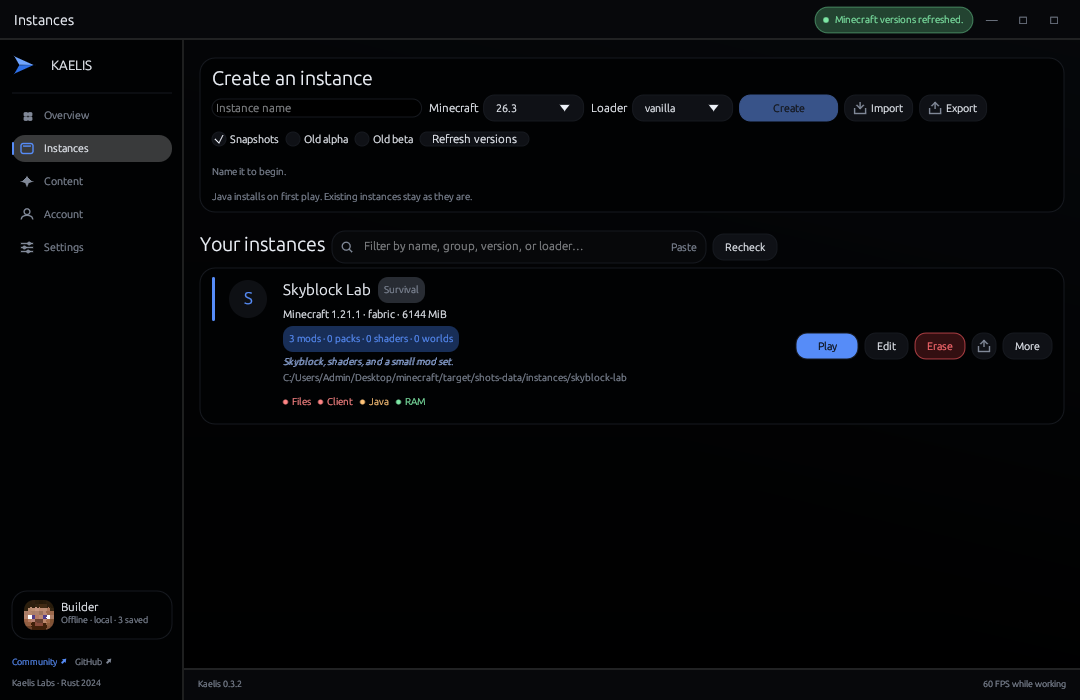
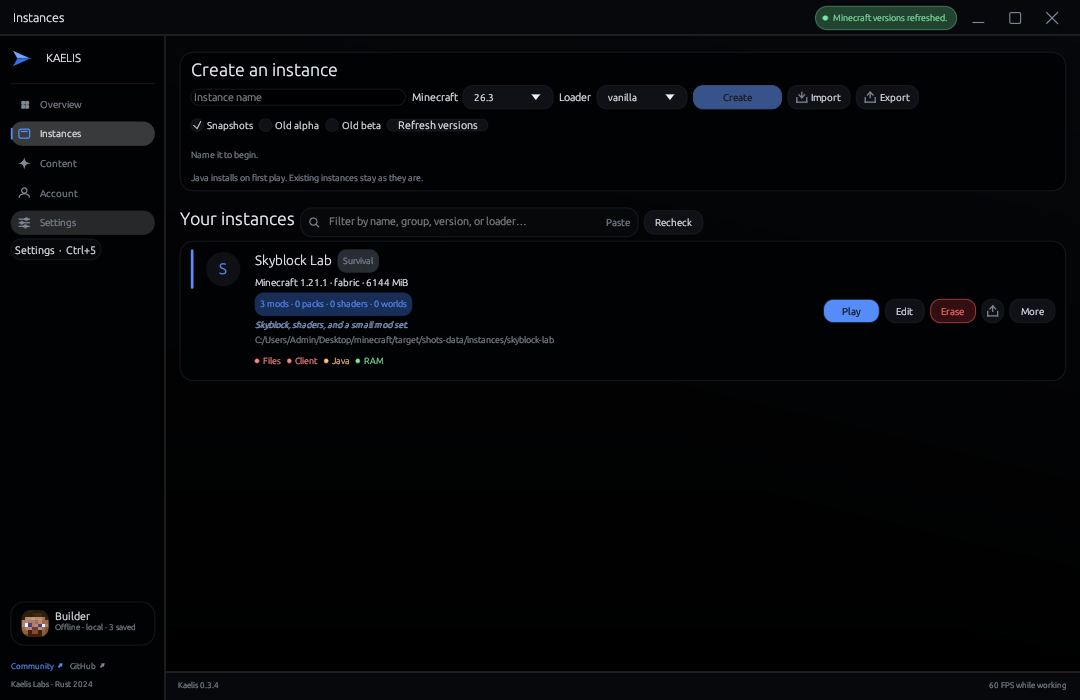
Round the window at composition time and drop every shadow
The window now asks the compositor for rounded corners and a border-less
edge instead of relying on a transparent surface, so the pixels it owns stay
opaque and no full-surface alpha blend is paid on any frame. The three window
controls are painted strokes in the system's own shapes, which keeps the close
button looking like the one every other window has, and the card, menu, and
popup shadows are gone: flat surfaces and hairlines do the separating.

Measured on the development host, window time and working set move within host
noise either way, so this is a change that removes work rather than one that
can be shown as a speedup.

Generated with Codebuff 🤖

diff --git a/site/index.html b/site/index.html
@@ -40,7 +40,7 @@
         "applicationSubCategory": "Minecraft launcher",
         "operatingSystem": "Windows 10, Windows 11, macOS 11, Linux",
         "processorRequirements": "x86_64 or arm64",
-        "softwareVersion": "0.3.3",
+        "softwareVersion": "0.3.4",
         "softwareRequirements": "Rust 1.85+ to build from source; Java is provisioned automatically",
         "downloadUrl": "https://fuvji.github.io/kaelis/downloads/Kaelis-Portable.zip",
         "installUrl": "https://fuvji.github.io/kaelis/#downloads",
@@ -424,7 +424,7 @@
     <div class="shell" id="top">
       <section class="hero" aria-labelledby="hero-title">
         <div>
-          <span class="eyebrow"><i></i>v0.3.3 · Windows · macOS · Linux</span>
+          <span class="eyebrow"><i></i>v0.3.4 · Windows · macOS · Linux</span>
           <h1 id="hero-title">Minecraft,<br><em>composed.</em></h1>
           <p class="lede">Instances, mods, packs, shaders, and accounts in one native workspace. Files stay local. Nothing runs in the background.</p>
           <div class="hero-actions">
@@ -599,7 +599,7 @@
         </div>
 
         <div class="downloads-foot">
-          <span><b style="color:var(--text)">New in 0.3.3</b> · every third-party component sits at its <b style="color:var(--text)">newest patch release</b>, and <b style="color:var(--text)">the launcher remembers how it was left</b>: the window reopens at the size it was last settled on, and snapshots, alpha and beta versions, required dependencies, the search providers, and search-as-you-type all reopen where they were set. The window is now a <b style="color:var(--text)">frameless overlay</b> — drag its own header to move it, double-click to maximize or restore, one control each to minimize, maximize, and close, and resizing from every edge and corner. Descriptions across the launcher are one line each. Everything from 0.3.1 remains: Play repairs a missing JVM, client jar, library, or loader before it launches, Minecraft's own telemetry is forced off, and Auto Erase Junk keeps every instance clean at 0.00% idle cost.</span>
+          <span><b style="color:var(--text)">New in 0.3.4</b> · <b style="color:var(--text)">smoothly rounded corners</b> come from the compositor instead of a transparent surface, the window controls are drawn as strokes in the system's own shapes, and <b style="color:var(--text)">every drop shadow is gone</b> — flat surfaces and hairlines do the separating. The window surface is opaque now, which removes a full-surface alpha blend from every frame. <b style="color:var(--text)">The launcher remembers how it was left</b>: the window reopens at the size it was last settled on, and snapshots, alpha and beta versions, required dependencies, the search providers, and search-as-you-type all reopen where they were set. The window is now a <b style="color:var(--text)">frameless overlay</b> — drag its own header to move it, double-click to maximize or restore, one control each to minimize, maximize, and close, and resizing from every edge and corner. Descriptions across the launcher are one line each. Everything from 0.3.1 remains: Play repairs a missing JVM, client jar, library, or loader before it launches, Minecraft's own telemetry is forced off, and Auto Erase Junk keeps every instance clean at 0.00% idle cost.</span>
           <span>Every tag builds all three platforms in CI and publishes checksums.</span>
           <a href="downloads/KAELIS-LINKS.txt">URL &amp; install index ↗</a>
           <a href="https://github.com/fuvji/kaelis/releases/latest" rel="noreferrer">All releases ↗</a>
@@ -610,9 +610,9 @@
           <summary>Checksums and build provenance</summary>
           <div class="body">
             <p style="margin:0;color:var(--muted);font-size:13px">Every artifact is hashed at release time. Published files: <a href="downloads/SHA256SUMS.txt" style="color:var(--accent-soft)">SHA256SUMS.txt</a> and the generated <a href="downloads/KAELIS-LINKS.txt" style="color:var(--accent-soft)">URL &amp; installation index</a>.</p>
-            <div class="hash"><span>Kaelis.exe</span><code data-release="exe-hash">bd7ddecd2f58aa4b230a11b8d54cde0018c59356f84c5c76777446fa92dcabb3</code></div>
-            <div class="hash"><span>Kaelis-Portable.zip</span><code data-release="zip-hash">07df916b29a91ae8f7aaf59456f4900ca616f2d9672fa812b585221840e3eaac</code></div>
-            <div class="hash"><span>Kaelis-Setup.exe</span><code data-release="setup-hash">b2dabfa4675c352c2ce0f992a9ff04eee36394de2ccab3e9529c4414aff8f948</code></div>
+            <div class="hash"><span>Kaelis.exe</span><code data-release="exe-hash">f323426615ece54a4977a5f367b9f096a34cee6f3187633c9fbe0275c5e68444</code></div>
+            <div class="hash"><span>Kaelis-Portable.zip</span><code data-release="zip-hash">071ccbcd7d067a83573c4ab04b655b1f0f26b1743e074de1c756b2181dcf6aac</code></div>
+            <div class="hash"><span>Kaelis-Setup.exe</span><code data-release="setup-hash">732a9c026ee9544e8a338070ee098b20a81eea8e59c8b97be6545df47af4ab1a</code></div>
             <div class="hash"><span>Kaelis-macos-universal.dmg</span><code data-release="dmg-hash">6fa2fda1b93f2c01228da3073ce18f3722b7e650bbcd4703eabbe5e7a2b2e9f7</code></div>
             <div class="hash"><span>Kaelis-linux-x64.deb</span><code data-release="deb-hash">e2510545e116a6c29daa32eebc9da1629bff25c4fa14be307cd2de3a57ae3d0d</code></div>
             <div class="hash"><span>Kaelis-linux-x64.AppImage</span><code data-release="appimage-hash">0c34a7aaba346aeb68a284834321db24a72d3fc2fe1f172871d3921c289cea52</code></div>

diff --git a/crates/kaelis-gui/src/lib.rs b/crates/kaelis-gui/src/lib.rs
@@ -1149,6 +1149,12 @@ pub struct KaelisApp {
     /// The persisted switches as they were last written, compared once per
     /// frame so any checkbox can change them without its own save call.
     ui_switches_saved: UiSwitches,
+    /// Whether the compositor has been asked for rounded corners yet, and how
+    /// many frames the ask has been retried for.
+    #[cfg(windows)]
+    window_rounded: bool,
+    #[cfg(windows)]
+    window_round_tries: u8,
     /// The window is hidden because a game started, not by the user. Only this
     /// case restores the window automatically when the last game exits.
     hidden_for_game: bool,
@@ -1189,20 +1195,12 @@ fn install_style(context: &egui::Context) {
     visuals.window_rounding = egui::Rounding::same(CORNER_LG);
     visuals.menu_rounding = egui::Rounding::same(CORNER_MD);
     // Flat surfaces and hairline strokes do the separating. A drop shadow
-    // under every card is the fastest way to make a dark UI look muddy, and on
-    // an OLED panel it lights up pixels that would otherwise be off.
-    visuals.window_shadow = egui::epaint::Shadow {
-        offset: egui::vec2(0.0, 8.0),
-        blur: 24.0,
-        spread: 0.0,
-        color: egui::Color32::from_black_alpha(160),
-    };
-    visuals.popup_shadow = egui::epaint::Shadow {
-        offset: egui::vec2(0.0, 6.0),
-        blur: 20.0,
-        spread: 0.0,
-        color: egui::Color32::from_black_alpha(150),
-    };
+    // under every card is the fastest way to make a dark UI look muddy, it
+    // lights up pixels an OLED panel would otherwise switch off, and it is
+    // feathered geometry the painter has to tessellate on every open menu.
+    // Removing it costs nothing and saves all three.
+    visuals.window_shadow = egui::epaint::Shadow::NONE;
+    visuals.popup_shadow = egui::epaint::Shadow::NONE;
     // No global text override: egui derives placeholder/hint text from the
     // widget foreground, so an override would make every hint look like a
     // real value. Colour the widget states instead.
@@ -1570,6 +1568,10 @@ impl KaelisApp {
             launch_at_startup: launcher_settings.launch_at_startup,
             window_size: launcher_settings.window_size,
             window_size_due: None,
+            #[cfg(windows)]
+            window_rounded: false,
+            #[cfg(windows)]
+            window_round_tries: 0,
             ui_switches_saved: UiSwitches {
                 show_snapshots: launcher_settings.show_snapshots,
                 show_alpha: launcher_settings.show_alpha,
@@ -6877,19 +6879,21 @@ impl KaelisApp {
                             .strong(),
                     );
                     ui.with_layout(egui::Layout::right_to_left(egui::Align::Center), |ui| {
-                        if header_button(ui, "✕", "Close").clicked() {
+                        if window_control(ui, WindowControl::Close, "Close").clicked() {
                             self.quit_now();
                         }
                         let maximized = context
                             .input(|input| input.viewport().maximized)
                             .unwrap_or(false);
-                        let glyph = if maximized { "❐" } else { "□" };
-                        if header_button(ui, glyph, if maximized { "Restore" } else { "Maximize" })
-                            .clicked()
-                        {
+                        let (control, tooltip) = if maximized {
+                            (WindowControl::Restore, "Restore")
+                        } else {
+                            (WindowControl::Maximize, "Maximize")
+                        };
+                        if window_control(ui, control, tooltip).clicked() {
                             context.send_viewport_cmd(egui::ViewportCommand::Maximized(!maximized));
                         }
-                        if header_button(ui, "—", "Minimize").clicked() {
+                        if window_control(ui, WindowControl::Minimize, "Minimize").clicked() {
                             platform::minimize_window(context);
                         }
                         let running = self.running_instances.len();
@@ -11644,6 +11648,18 @@ impl eframe::App for KaelisApp {
         // actually changed.
         self.persist_switches_if_changed();
         self.track_window_size(context);
+        #[cfg(windows)]
+        if !self.window_rounded {
+            // The compositor needs the real handle, which exists once the
+            // window does. A retry is bounded so a system that never answers
+            // cannot turn this into a repaint loop, and a system that answers
+            // with an error (Windows 10) is done on the first try.
+            self.window_rounded = platform::round_window_corners();
+            if !self.window_rounded && self.window_round_tries < 20 {
+                self.window_round_tries += 1;
+                context.request_repaint();
+            }
+        }
         Self::window_resize_grips(context);
         Self::paint_backdrop(context);
         self.show_header(context);
@@ -12835,15 +12851,86 @@ fn check_chip(
 /// neighbours and sat at the top of the row. Allocating the control height up
 /// front and painting the dot and text on its centre line keeps every toolbar
 /// on one baseline without adding another widget to the paint path.
-/// One glyph control on the header strip, sized like the rail's icons.
-fn header_button(ui: &mut egui::Ui, glyph: &str, tooltip: &str) -> egui::Response {
-    ui.add(
-        egui::Button::new(egui::RichText::new(glyph).size(12.0).color(MUTED))
-            .frame(false)
-            .min_size(egui::vec2(24.0, CONTROL_HEIGHT)),
-    )
-    .on_hover_text(tooltip)
-    .on_hover_cursor(egui::CursorIcon::PointingHand)
+/// Which window control a header button is.
+#[derive(Debug, Clone, Copy, PartialEq, Eq)]
+enum WindowControl {
+    Minimize,
+    Maximize,
+    Restore,
+    Close,
+}
+
+/// One window control on the header strip, drawn with strokes.
+///
+/// Strokes instead of glyphs: the last controls on the window should not depend
+/// on which icons a font happens to carry, and lines stay crisp at every scale
+/// factor. The shapes are the system's — a rule, a frame, two frames, and an
+/// X — so the strip reads like window chrome rather than app buttons. The
+/// close button keeps the system's red hover, which is the one place a window
+/// says “this ends me”.
+fn window_control(ui: &mut egui::Ui, control: WindowControl, tooltip: &str) -> egui::Response {
+    const WIDTH: f32 = 34.0;
+    /// Half the glyph's width: every shape below is drawn inside 12 × 12 points.
+    const HALF: f32 = 6.0;
+    let (rect, response) =
+        ui.allocate_exact_size(egui::vec2(WIDTH, CONTROL_HEIGHT), egui::Sense::click());
+    let hovered = response.hovered();
+    let painter = ui.painter();
+    if hovered {
+        let fill = if control == WindowControl::Close {
+            egui::Color32::from_rgb(150, 34, 26)
+        } else {
+            egui::Color32::from_rgb(25, 29, 36)
+        };
+        painter.rect_filled(rect, egui::Rounding::same(6.0), fill);
+    }
+    let color = if hovered {
+        egui::Color32::from_rgb(255, 255, 255)
+    } else {
+        MUTED
+    };
+    let stroke = egui::Stroke::new(1.25_f32, color);
+    let center = rect.center();
+    let size = egui::vec2(HALF * 2.0, HALF * 2.0);
+    match control {
+        WindowControl::Minimize => {
+            painter.hline(
+                (center.x - HALF)..=(center.x + HALF),
+                center.y + HALF - 1.0,
+                stroke,
+            );
+        }
+        WindowControl::Maximize => {
+            painter.rect_stroke(
+                egui::Rect::from_center_size(center, size),
+                egui::Rounding::same(1.5),
+                stroke,
+            );
+        }
+        WindowControl::Restore => {
+            // The system's restore shape: a near frame, then the front one.
+            let offset = egui::vec2(2.0, -2.0);
+            let front = egui::Rect::from_center_size(center + egui::vec2(-1.0, 1.0), size);
+            let back = front.translate(offset);
+            painter.line_segment([back.left_top(), back.right_top()], stroke);
+            painter.line_segment([back.right_top(), back.right_bottom()], stroke);
+            painter.rect_stroke(front, egui::Rounding::same(1.5), stroke);
+        }
+        WindowControl::Close => {
+            let half = egui::vec2(HALF, HALF);
+            painter.line_segment([center - half, center + half], stroke);
+            painter.line_segment(
+                [
+                    center + egui::vec2(-HALF, HALF),
+                    center + egui::vec2(HALF, -HALF),
+                ],
+                stroke,
+            );
+        }
+    }
+    response
+        .on_hover_text(tooltip)
+        .on_hover_cursor(egui::CursorIcon::PointingHand)
 }
 
 fn status_pill(ui: &mut egui::Ui, text: &str, color: egui::Color32) -> egui::Response {

diff --git a/crates/kaelis-gui/src/platform.rs b/crates/kaelis-gui/src/platform.rs
@@ -297,6 +297,52 @@ pub(crate) fn hide_to_tray(context: &egui::Context) {
     trim_working_set();
 }
 
+/// Ask the compositor for smoothly rounded corners and no window border.
+///
+/// The launcher paints its own header, so it has no frame for the system to
+/// round. Windows 11 rounds a resizable window at composition time when asked,
+/// which costs the launcher nothing per frame — no transparent surface, no
+/// per-pixel alpha, no extra draw call. Windows 10 ignores the request and
+/// keeps its own default, so a failed call is not an error.
+///
+/// Returns `true` once the launcher's window was found and the request made,
+/// so a caller can retry while the handle does not exist yet and stop after it
+/// does — including on a system that answers with an error.
+#[cfg(windows)]
+pub(crate) fn round_window_corners() -> bool {
+    use windows_sys::Win32::Graphics::Dwm::DwmSetWindowAttribute;
+
+    /// `DWMWA_WINDOW_CORNER_PREFERENCE`.
+    const CORNER_PREFERENCE: u32 = 33;
+    /// `DWMWA_BORDER_COLOR`.
+    const BORDER_COLOR: u32 = 34;
+    /// `DWMWCP_ROUND`: the rounded-rectangle preference.
+    const ROUND: i32 = 2;
+    /// `DWMWA_COLOR_NONE`: draw no border at all.
+    const NO_BORDER: u32 = 0xFFFF_FFFE;
+
+    let Some(window) = main_window() else {
+        return false;
+    };
+    // SAFETY: `window` belongs to this process, and both pointers are valid
+    // for the four bytes the attribute expects.
+    unsafe {
+        DwmSetWindowAttribute(
+            window,
+            CORNER_PREFERENCE,
+            std::ptr::from_ref(&ROUND).cast(),
+            std::mem::size_of::<i32>() as u32,
+        );
+        DwmSetWindowAttribute(
+            window,
+            BORDER_COLOR,
+            std::ptr::from_ref(&NO_BORDER).cast(),
+            std::mem::size_of::<u32>() as u32,
+        );
+    }
+    true
+}
+
 /// The header's minimize control on an overlay with no native title bar.
 ///
 /// On Windows the launcher's own behaviour is the tray, so the custom button

diff --git a/crates/kaelis-launcher/src/main.rs b/crates/kaelis-launcher/src/main.rs
@@ -1787,8 +1787,13 @@ fn native_options(
             .with_icon(kaelis_gui::window_icon())
             // Wayland/X11 use the app id to match the window to its desktop
             // entry, so the icon and name are right in the taskbar.
-            .with_app_id("kaelis")
-            .with_transparent(true),
+            //
+            //
+            // The surface stays opaque on purpose. The launcher paints every
+            // pixel it owns, so a transparent window would buy nothing and cost
+            // a full-surface alpha blend on every frame; the rounded corners
+            // come from the compositor instead (see platform::round_window_corners).
+            .with_app_id("kaelis"),
         ..Default::default()
     }
 }

diff --git a/README.md b/README.md
@@ -1,6 +1,6 @@
 # Kaelis - Fastest & Lightest Minecraft Launcher
 
-![Version](https://img.shields.io/badge/version-0.3.3-70a5ff)
+![Version](https://img.shields.io/badge/version-0.3.4-70a5ff)
 ![Platforms](https://img.shields.io/badge/platforms-Windows%20%7C%20macOS%20%7C%20Linux-2e70e8)
 ![License](https://img.shields.io/badge/license-MIT-8b949e)
 ![Idle CPU](https://img.shields.io/badge/idle%20CPU-0.00%25-3fb950)
@@ -31,7 +31,7 @@ keep that library clean, correct, and fast on their own.
 | **Runs in parallel, quietly** | Per-instance OS guards let different instances launch together; a smart power governor drops every unfocused game to idle priority within 1.5 s and restores it the moment it is focused, so the game being played owns the CPU |
 | **Reopens, never doubles** | One process, one tray icon: a second launch, a Start-menu click, or the tray icon restores the running window in ~120 ms instead of starting another launcher — including over a fullscreen game |
 | **Hibernates while you play** | Starting a game hides the window and empties its working set, and 90 s unfocused does the same while the window stays open; one tray click restores it, mid-game included |
-| **Frameless window, tray-first** | The launcher draws its own header instead of a native title bar: drag anywhere on the strip to move the window, double-click to maximize or restore, and one click each to minimize, maximize, or close — Close ends the process immediately. On Windows minimize still hides to the notification area and gives its pages back. Always on; there is no switch to turn it off. The tray icon itself toggles: a click restores a hidden or taskbar-minimised window, and hides a visible one. The native menu is forced dark and is three actions plus one separator |
+| **Frameless window, tray-first** | The launcher draws its own header instead of a native title bar: drag anywhere on the strip to move the window, double-click to maximize or restore, and one click each to minimize, maximize, or close — Close ends the process immediately. The corners are rounded by the compositor rather than by a transparent surface, and the three controls are painted strokes, so they keep the system's shapes at every scale factor. On Windows minimize still hides to the notification area and gives its pages back. Always on; there is no switch to turn it off. The tray icon itself toggles: a click restores a hidden or taskbar-minimised window, and hides a visible one. The native menu is forced dark and is three actions plus one separator |
 | **Remembers your setup** | Window size and every remembered switch reopen the way they were left: version-list snapshots, alpha and beta versions, required dependencies, the search providers, and search-as-you-type. A resize is written once the drag settles, and quitting right after one still keeps the newest size |
 | **Updates in one click** | One anonymous GitHub request runs in the background after the window is up. When a newer release exists, the footer version links to it and an **Update** action installs the build right there: the download is SHA-256-verified against the same release, the old executable is backed up, and a failed swap rolls back. Nothing downloads or installs on its own |
 | **Starts with Windows** | One optional per-user sign-in entry opens Kaelis hidden in the tray, with no service, scheduled task, splash, or focus steal. Enable or disable it in Settings or with `kaelis --startup on\|off` |
@@ -108,7 +108,27 @@ same machine recorded 362 ms for 0.1.3 on a different day without any change to
 the window path, so a number that looks slower here is the machine, not the
 launcher. The working set and handle count are the figures that stay stable.
 
-## What's new in 0.3.3
+## What's new in 0.3.4
+
+- **Smoothly rounded corners, from the compositor.** The window asks Windows 11
+  for rounded corners and a border-less edge, so the rounding happens at
+  composition time and costs the launcher nothing per frame: no transparent
+  surface, no per-pixel alpha, no extra draw. Windows 10 ignores the request and
+  keeps its own default, as do macOS and Linux.
+- **The window controls are drawn as strokes.** Minimize, maximize or restore,
+  and close are painted lines in the system's own shapes instead of font
+  glyphs, so they stay crisp at every scale factor and no longer depend on the
+  icons a font happens to carry. Close keeps the system's red hover.
+- **Every drop shadow is gone.** Cards, menus, and popups are separated by flat
+  surfaces and hairlines only: fewer feathered shapes to tessellate, and no
+  pixels lit in a dark room that an OLED panel would otherwise switch off.
+- **The window surface is opaque.** The launcher paints every pixel it owns, so
+  requesting per-pixel transparency bought nothing and cost a full-surface
+  alpha blend on every frame. Measured on the development host, window time and
+  working set move within host noise either way; what changed is that work was
+  removed rather than added.
+
+### From 0.3.3
 
 - **Every component sits at its newest patch release.** `openssl-probe` 0.2.2,
   `roxmltree` 0.21.2, and `rustix` 1.1.6 replace their previous patch versions.
